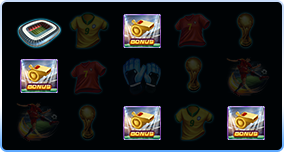
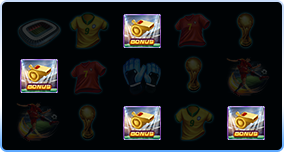
fix: update images and scrollbar

Changed region(s): [[0.0563, 0.1053, 0.2254, 0.3158]]

diff --git a/src/components/game-guide/way-to-goal/en/index.tsx b/src/components/game-guide/way-to-goal/en/index.tsx
@@ -388,7 +388,7 @@ const renderBonus = (odds: number[][]) => {
                     <div className={Styles[freeSpinContentEX]}>
                         <div className={Styles["wrapper-free-spin-ex"]}>
                             <img
-                                src="/static/images/way-to-goal/guide_example_bonus.png#v3"
+                                src="/static/images/way-to-goal/guide_example_bonus.png#v2"
                                 alt="guide_example_bonus"
                                 width={265}
                                 height={125}

diff --git a/src/components/game-guide/way-to-goal/vi/index.tsx b/src/components/game-guide/way-to-goal/vi/index.tsx
@@ -200,7 +200,7 @@ const renderBonus = (odds: number[][]) => {
                     <div className={Styles[freeSpinContentEX]}>
                         <div className={Styles["wrapper-free-spin-ex"]}>
                             <img
-                                src="/static/images/way-to-goal/guide_example_bonus.png#v3"
+                                src="/static/images/way-to-goal/guide_example_bonus.png#v2"
                                 alt="guide_example_bonus"
                                 width={265}
                                 height={125}

diff --git a/src/assets/main.scss b/src/assets/main.scss
@@ -185,8 +185,8 @@
     --page-background: transparent;
 
     // scrollbar
-    --scrollbar-background: #28aedb;
-    --scrollbar-thumb-background: #032960;
+    --scrollbar-background: #032960;
+    --scrollbar-thumb-background: #28aedb;
 
     // font-size
     --font-size: 2.2rem;
@@ -285,6 +285,7 @@ label {
 }
 
 html[data-theme="way-to-goal"] {
+    ::-webkit-scrollbar,
     ::-webkit-scrollbar-thumb,
     ::-webkit-scrollbar-track {
         border-radius: 0.8rem;

diff --git a/src/components/game-guide/way-to-goal/way-to-goal.module.scss b/src/components/game-guide/way-to-goal/way-to-goal.module.scss
@@ -6,6 +6,8 @@
 }
 
 .wrapper-icon {
+    margin: 0;
+
     .icon-content-wrapper {
         top: 2.4rem;
     }
